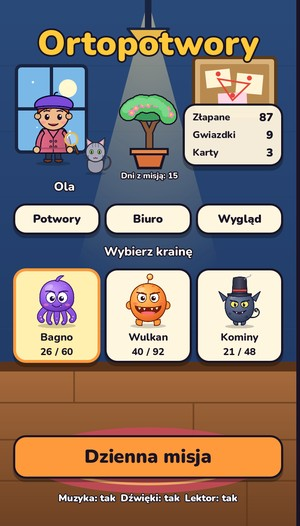
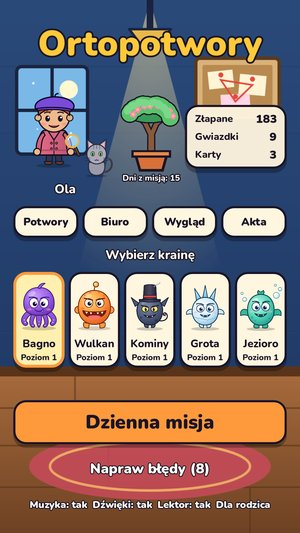
Ortopotwory: zrzuty i opis z wersji 1.2 (5 krain, 425 wyrazów, mapa krainy)
Zrzuty z karty sklepu (sklep/metadata/.../phoneScreenshots w repo gry,
stan z 17.11) plus mapa Bąblowego Jeziora, zamiast zrzutów z 11.11
(3 krainy, „Bagno Óśmiornicy”).

Claude-Session: https://claude.ai/code/session_01Y8aU7nnZJ63QC1ZsBExAPs

diff --git a/gry/ortopotwory/index.html b/gry/ortopotwory/index.html
@@ -3,15 +3,15 @@
 <head>
 <meta charset="utf-8">
 <meta name="viewport" content="width=device-width, initial-scale=1">
-<title>Ortopotwory: gra do nauki ortografii dla dzieci (ó/u, rz/ż, ch/h, ś/si)</title>
-<meta name="description" content="Ortografia dla dzieci 7–12 lat w formie gry: 4 krainy, 341 wyrazów i 52 zdania do dyktanda. Kilka minut dziennie, bez reklam, offline. Pierwsza kraina za darmo.">
+<title>Ortopotwory: gra do nauki ortografii dla dzieci (ó/u, rz/ż, ch/h, ą/ę)</title>
+<meta name="description" content="Ortografia dla dzieci 7–12 lat w formie gry: 5 krain, 425 wyrazów i 67 zdań do dyktanda. Kilka minut dziennie, bez reklam, offline. Pierwsza kraina za darmo.">
 <link rel="canonical" href="https://arturbyrski.pl/gry/ortopotwory/">
 <meta property="og:type" content="website">
 <meta property="og:locale" content="pl_PL">
 <meta property="og:site_name" content="Senne gry Artura">
 <meta property="og:url" content="https://arturbyrski.pl/gry/ortopotwory/">
 <meta property="og:title" content="Ortopotwory: Detektywi ortografii">
-<meta property="og:description" content="Ortografia dla dzieci 7–12 lat w formie gry: 4 krainy, 341 wyrazów i 52 zdania do dyktanda. Kilka minut dziennie, bez reklam, offline. Pierwsza kraina za darmo.">
+<meta property="og:description" content="Ortografia dla dzieci 7–12 lat w formie gry: 5 krain, 425 wyrazów i 67 zdań do dyktanda. Kilka minut dziennie, bez reklam, offline. Pierwsza kraina za darmo.">
 <meta property="og:image" content="https://arturbyrski.pl/img/gry/ortopotwory/okladka.jpg">
 <meta property="og:image:alt" content="Ortopotwory: Detektywi ortografii">
 <meta name="twitter:card" content="summary_large_image">
@@ -27,7 +27,7 @@
   "name": "Ortopotwory: Detektywi ortografii",
   "alternateName": "Ortopotwory: Spelling Detectives",
   "url": "https://arturbyrski.pl/gry/ortopotwory/",
-  "description": "Ortografia dla dzieci 7–12 lat w formie gry: 4 krainy, 341 wyrazów i 52 zdania do dyktanda. Kilka minut dziennie, bez reklam, offline. Pierwsza kraina za darmo.",
+  "description": "Ortografia dla dzieci 7–12 lat w formie gry: 5 krain, 425 wyrazów i 67 zdań do dyktanda. Kilka minut dziennie, bez reklam, offline. Pierwsza kraina za darmo.",
   "applicationCategory": "EducationalApplication",
   "operatingSystem": "Android",
   "inLanguage": "pl",
@@ -47,13 +47,14 @@
   "image": "https://arturbyrski.pl/img/gry/ortopotwory/okladka.jpg",
   "screenshot": [
    "https://arturbyrski.pl/img/gry/ortopotwory/1-biuro.jpg",
-   "https://arturbyrski.pl/img/gry/ortopotwory/5-pulapka.jpg",
-   "https://arturbyrski.pl/img/gry/ortopotwory/6-labirynt.jpg",
-   "https://arturbyrski.pl/img/gry/ortopotwory/7-dyktando.jpg",
-   "https://arturbyrski.pl/img/gry/ortopotwory/8-krol.jpg",
-   "https://arturbyrski.pl/img/gry/ortopotwory/3-baza.jpg",
-   "https://arturbyrski.pl/img/gry/ortopotwory/2-detektyw.jpg",
-   "https://arturbyrski.pl/img/gry/ortopotwory/9-podsumowanie.jpg"
+   "https://arturbyrski.pl/img/gry/ortopotwory/2-pulapka.jpg",
+   "https://arturbyrski.pl/img/gry/ortopotwory/3-lupa.jpg",
+   "https://arturbyrski.pl/img/gry/ortopotwory/4-labirynt.jpg",
+   "https://arturbyrski.pl/img/gry/ortopotwory/5-dyktando.jpg",
+   "https://arturbyrski.pl/img/gry/ortopotwory/6-mapa.jpg",
+   "https://arturbyrski.pl/img/gry/ortopotwory/7-krol.jpg",
+   "https://arturbyrski.pl/img/gry/ortopotwory/8-baza.jpg",
+   "https://arturbyrski.pl/img/gry/ortopotwory/9-biuro-ozdoby.jpg"
   ],
   "audience": {
    "@type": "PeopleAudience",
@@ -61,7 +62,7 @@
    "suggestedMaxAge": 12
   },
   "typicalAgeRange": "7-12",
-  "keywords": "ortografia, nauka ortografii, ó i u, rz i ż, ch i h, zmiękczenia, ś czy si, dyktando, język polski, gra edukacyjna"
+  "keywords": "ortografia, nauka ortografii, ó i u, rz i ż, ch i h, zmiękczenia, ą czy ę, ś czy si, dyktando, język polski, gra edukacyjna"
  },
  {
   "@context": "https://schema.org",
@@ -91,14 +92,14 @@
 <!-- Plik wygenerowany przez narzedzia/strona.py z dane/gry/ortopotwory.json. Nie edytuj ręcznie. -->
 <header class="pasek"><div class="wrap"><a class="logo" href="../../index.html"><svg width="30" height="30" viewBox="0 0 32 32" aria-hidden="true"><circle cx="16" cy="16" r="15" fill="#3d2a7a"/><path d="M21 6a10 10 0 1 0 5 15A8 8 0 0 1 21 6z" fill="#ffe08a"/></svg>Senne gry Artura</a><nav class="menu"><a href="../../index.html#gry">Gry</a><a href="../../ortografia/">Zasady ortografii</a><a href="../../index.html#rodzice">Dla rodziców</a><a href="../../index.html#dzieci">Dla dzieci</a><a href="../../index.html#kontakt">Kontakt</a><a href="#en">English</a></nav></div></header>
 <main>
-<section class="niebo"><div class="gwiazdy" aria-hidden="true"><span style="left:37%;top:53%;animation-delay:0.6s"></span><span style="left:74%;top:36%;animation-delay:1.2s"></span><span style="left:11%;top:19%;animation-delay:1.8s"></span><span style="left:48%;top:2%;animation-delay:2.4s"></span><span style="left:85%;top:55%;animation-delay:3.0s"></span><span style="left:22%;top:38%;animation-delay:3.6s"></span><span style="left:59%;top:21%;animation-delay:0.0s"></span><span style="left:96%;top:4%;animation-delay:0.6s"></span><span style="left:33%;top:57%;animation-delay:1.2s"></span><span style="left:70%;top:40%;animation-delay:1.8s"></span><span style="left:7%;top:23%;animation-delay:2.4s"></span><span style="left:44%;top:6%;animation-delay:3.0s"></span><span style="left:81%;top:59%;animation-delay:3.6s"></span><span style="left:18%;top:42%;animation-delay:0.0s"></span><span style="left:55%;top:25%;animation-delay:0.6s"></span><span style="left:92%;top:8%;animation-delay:1.2s"></span><span style="left:29%;top:61%;animation-delay:1.8s"></span><span style="left:66%;top:44%;animation-delay:2.4s"></span><span style="left:3%;top:27%;animation-delay:3.0s"></span><span style="left:40%;top:10%;animation-delay:3.6s"></span><span style="left:77%;top:63%;animation-delay:0.0s"></span><span style="left:14%;top:46%;animation-delay:0.6s"></span><span style="left:51%;top:29%;animation-delay:1.2s"></span><span style="left:88%;top:12%;animation-delay:1.8s"></span><span style="left:25%;top:65%;animation-delay:2.4s"></span><span style="left:62%;top:48%;animation-delay:3.0s"></span><span style="left:99%;top:31%;animation-delay:3.6s"></span></div><div class="ksiezyc" aria-hidden="true"></div><div class="wrap niebo-tresc"><div><h1>Ortopotwory: Detektywi ortografii</h1><p class="lead">Gra do nauki ortografii: kilka minut dziennie, a trudne wyrazy z ó/u, rz/ż, ch/h i zmiękczeniami zostają w pamięci. Bez reklam, bez zbierania danych.</p><ul class="znaczki"><li>dla dzieci 7–12 lat</li><li>bez reklam</li><li>bez internetu</li><li>bez zbierania danych</li></ul><div class="przyciski"><span class="przycisk przycisk-wkrotce" aria-disabled="true">Google Play · wkrótce</span><span class="notka-sklepu">Czeka na zatwierdzenie przez Google.</span></div></div><div><img src="../../img/gry/ortopotwory/okladka.jpg" alt="Ortopotwory: Detektywi ortografii: ekran gry dla dzieci" width="1280" height="720"></div></div></section>
+<section class="niebo"><div class="gwiazdy" aria-hidden="true"><span style="left:37%;top:53%;animation-delay:0.6s"></span><span style="left:74%;top:36%;animation-delay:1.2s"></span><span style="left:11%;top:19%;animation-delay:1.8s"></span><span style="left:48%;top:2%;animation-delay:2.4s"></span><span style="left:85%;top:55%;animation-delay:3.0s"></span><span style="left:22%;top:38%;animation-delay:3.6s"></span><span style="left:59%;top:21%;animation-delay:0.0s"></span><span style="left:96%;top:4%;animation-delay:0.6s"></span><span style="left:33%;top:57%;animation-delay:1.2s"></span><span style="left:70%;top:40%;animation-delay:1.8s"></span><span style="left:7%;top:23%;animation-delay:2.4s"></span><span style="left:44%;top:6%;animation-delay:3.0s"></span><span style="left:81%;top:59%;animation-delay:3.6s"></span><span style="left:18%;top:42%;animation-delay:0.0s"></span><span style="left:55%;top:25%;animation-delay:0.6s"></span><span style="left:92%;top:8%;animation-delay:1.2s"></span><span style="left:29%;top:61%;animation-delay:1.8s"></span><span style="left:66%;top:44%;animation-delay:2.4s"></span><span style="left:3%;top:27%;animation-delay:3.0s"></span><span style="left:40%;top:10%;animation-delay:3.6s"></span><span style="left:77%;top:63%;animation-delay:0.0s"></span><span style="left:14%;top:46%;animation-delay:0.6s"></span><span style="left:51%;top:29%;animation-delay:1.2s"></span><span style="left:88%;top:12%;animation-delay:1.8s"></span><span style="left:25%;top:65%;animation-delay:2.4s"></span><span style="left:62%;top:48%;animation-delay:3.0s"></span><span style="left:99%;top:31%;animation-delay:3.6s"></span></div><div class="ksiezyc" aria-hidden="true"></div><div class="wrap niebo-tresc"><div><h1>Ortopotwory: Detektywi ortografii</h1><p class="lead">Gra do nauki ortografii: kilka minut dziennie, a trudne wyrazy z ó/u, rz/ż, ch/h, ą/ę i zmiękczeniami zostają w pamięci. Bez reklam, bez zbierania danych.</p><ul class="znaczki"><li>dla dzieci 7–12 lat</li><li>bez reklam</li><li>bez internetu</li><li>bez zbierania danych</li></ul><div class="przyciski"><span class="przycisk przycisk-wkrotce" aria-disabled="true">Google Play · wkrótce</span><span class="notka-sklepu">Czeka na zatwierdzenie przez Google.</span></div></div><div><img src="../../img/gry/ortopotwory/okladka.jpg" alt="Ortopotwory: Detektywi ortografii: ekran gry dla dzieci" width="1280" height="720"></div></div></section>
 <section id="dlaczego"><div class="wrap"><h2>Dla rodzica w skrócie</h2><div class="kafelki"><div class="kafel"><div class="ikona f" aria-hidden="true">⏱</div><h3>Kilka minut dziennie</h3><p>Jedna misja trwa około 8–10 minut. Łatwo ją zmieścić przed szkołą albo po lekcjach.</p></div><div class="kafel"><div class="ikona s" aria-hidden="true">🧠</div><h3>Trudne wyrazy zostają w pamięci</h3><p>Wyraz wraca po 1, 3, 7, 14 i 30 dniach, a po błędzie już jutro. Gra sama pilnuje, co powtórzyć.</p></div><div class="kafel"><div class="ikona r" aria-hidden="true">🚫</div><h3>Bez reklam</h3><p>Żadnych reklam, losowania nagród ani subskrypcji. Pełna wersja to jeden zakup.</p></div><div class="kafel"><div class="ikona m" aria-hidden="true">🔒</div><h3>Prywatność</h3><p>Bez kont i bez zbierania danych. Postępy zostają na telefonie, a gra działa bez internetu.</p></div><div class="kafel"><div class="ikona f" aria-hidden="true">📊</div><h3>Widzisz postępy</h3><p>Strefa rodzica pokazuje postępy w każdej krainie i wyrazy, które sprawiają dziecku kłopot.</p></div><div class="kafel"><div class="ikona s" aria-hidden="true">✅</div><h3>Tylko poprawna pisownia</h3><p>Gra nigdy nie pokazuje wyrazu z błędem, więc dziecko nie utrwala złej pisowni.</p></div></div></div></section>
-<section><div class="wrap waski"><h2>O grze</h2><p>Złośliwe potworki pomieszały litery w Słowolandii. Ósemka z bagna, Żarłok i Rzepek z wulkanu, Chochlik z kominów i Śnieżek ze Śnieżnej Groty podmieniają ó i u, rz i ż, ch i h oraz ś i si, ć i ci. Dziecko jako ortodetektyw łapie je, poprawiając wyrazy.</p><p>Każdego dnia czeka krótka misja na około 8–10 minut: kilka minigier na przemian i pojedynek z Królem potworów. Każda kraina zaczyna się komiksem z regułą, a wyrazy wracają w powtórkach po 1, 3, 7, 14 i 30 dniach, żeby zostały w pamięci na dłużej.</p><p>Gra nigdy nie pokazuje wyrazu z błędem. Brakująca litera to puste pole, a po odpowiedzi dziecko widzi tylko poprawną pisownię.</p></div></section>
-<section><div class="wrap"><h2>Co jest w grze</h2><div class="kafelki"><div class="kafel"><div class="ikona f" aria-hidden="true">🔍</div><h3>4 krainy, 341 wyrazów</h3><p>Bagno Ósemki (ó/u), Wulkan Żarłoka (rz/ż), Kominy Chochlika (ch/h) i Śnieżna Grota (ś/si, ć/ci, ź/zi, ń/ni, dź/dzi). Każda zaczyna się komiksem z regułą.</p></div><div class="kafel"><div class="ikona r" aria-hidden="true">🎮</div><h3>Minigry na zmianę</h3><p>Pułapka, Lupa i Labirynt na przemian, a na koniec misji pojedynek z Królem potworów.</p></div><div class="kafel"><div class="ikona s" aria-hidden="true">📝</div><h3>Dyktando potwora</h3><p>52 zdania czytane przez lektora. Dziecko uzupełnia brakujące litery w całym zdaniu.</p></div><div class="kafel"><div class="ikona m" aria-hidden="true">✋</div><h3>Odcisk palca</h3><p>Po błędzie dziecko obrysowuje wyraz palcem, a lektor go czyta. Ruch, wzrok i słuch razem.</p></div><div class="kafel"><div class="ikona f" aria-hidden="true">🕵</div><h3>Własny detektyw</h3><p>Wygląd, zwierzak, baza złapanych potworów i biuro z ozdobami za gwiazdki.</p></div><div class="kafel"><div class="ikona s" aria-hidden="true">🌱</div><h3>Drzewko serii</h3><p>Rośnie za każdy dzień z misją i nigdy nie usycha. Przerwa niczego nie zabiera.</p></div></div></div></section>
-<section><div class="wrap"><h2>Tak to wygląda</h2><div class="zrzuty"><figure><img src="../../img/gry/ortopotwory/1-biuro.jpg" alt="Biuro detektywa i mapa krain" width="300" height="526" loading="lazy"><figcaption>Biuro detektywa i mapa krain</figcaption></figure><figure><img src="../../img/gry/ortopotwory/5-pulapka.jpg" alt="Pułapka: ó czy u, zanim potwór wpadnie do bagna" width="300" height="526" loading="lazy"><figcaption>Pułapka: ó czy u, zanim potwór wpadnie do bagna</figcaption></figure><figure><img src="../../img/gry/ortopotwory/6-labirynt.jpg" alt="Labirynt: wybierz drzwi z dobrą literą" width="300" height="526" loading="lazy"><figcaption>Labirynt: wybierz drzwi z dobrą literą</figcaption></figure><figure><img src="../../img/gry/ortopotwory/7-dyktando.jpg" alt="Dyktando potwora: lektor czyta zdanie" width="300" height="526" loading="lazy"><figcaption>Dyktando potwora: lektor czyta zdanie</figcaption></figure><figure><img src="../../img/gry/ortopotwory/8-krol.jpg" alt="Pojedynek z Królem potworów" width="300" height="526" loading="lazy"><figcaption>Pojedynek z Królem potworów</figcaption></figure><figure><img src="../../img/gry/ortopotwory/3-baza.jpg" alt="Baza potworów: kartoteka złapanych wyrazów" width="300" height="526" loading="lazy"><figcaption>Baza potworów: kartoteka złapanych wyrazów</figcaption></figure><figure><img src="../../img/gry/ortopotwory/2-detektyw.jpg" alt="Własny detektyw: wygląd i zwierzak" width="300" height="526" loading="lazy"><figcaption>Własny detektyw: wygląd i zwierzak</figcaption></figure><figure><img src="../../img/gry/ortopotwory/9-podsumowanie.jpg" alt="Podsumowanie misji i drzewko serii" width="300" height="526" loading="lazy"><figcaption>Podsumowanie misji i drzewko serii</figcaption></figure></div></div></section>
+<section><div class="wrap waski"><h2>O grze</h2><p>Złośliwe potworki pomieszały litery w Słowolandii. Ósemka z bagna, Żarłok i Rzepek z wulkanu, Chochlik z kominów, Śnieżek ze Śnieżnej Groty i Bąbel z Bąblowego Jeziora podmieniają ó i u, rz i ż, ch i h, ś i si oraz ą i ę. Dziecko jako ortodetektyw łapie je, poprawiając wyrazy.</p><p>Każdego dnia czeka krótka misja na około 8–10 minut: kilka minigier na przemian i pojedynek z Królem potworów. Każda kraina zaczyna się komiksem z regułą, a wyrazy wracają w powtórkach po 1, 3, 7, 14 i 30 dniach, żeby zostały w pamięci na dłużej.</p><p>Gra nigdy nie pokazuje wyrazu z błędem. Brakująca litera to puste pole, a po odpowiedzi dziecko widzi tylko poprawną pisownię.</p></div></section>
+<section><div class="wrap"><h2>Co jest w grze</h2><div class="kafelki"><div class="kafel"><div class="ikona f" aria-hidden="true">🔍</div><h3>5 krain, 425 wyrazów</h3><p>Bagno Ósemki (ó/u), Wulkan Żarłoka (rz/ż), Kominy Chochlika (ch/h), Śnieżna Grota (ś/si, ć/ci, ź/zi, ń/ni, dź/dzi) i Bąblowe Jezioro (ą/ę, om/on/em/en). Każda zaczyna się komiksem z regułą.</p></div><div class="kafel"><div class="ikona r" aria-hidden="true">🎮</div><h3>Minigry na zmianę</h3><p>Pułapka, Lupa i Labirynt na przemian, a na koniec misji pojedynek z Królem potworów.</p></div><div class="kafel"><div class="ikona s" aria-hidden="true">📝</div><h3>Dyktando potwora</h3><p>67 zdań czytanych przez lektora. Dziecko uzupełnia brakujące litery w całym zdaniu.</p></div><div class="kafel"><div class="ikona m" aria-hidden="true">✋</div><h3>Odcisk palca</h3><p>Po błędzie dziecko obrysowuje wyraz palcem, a lektor go czyta. Ruch, wzrok i słuch razem.</p></div><div class="kafel"><div class="ikona f" aria-hidden="true">🕵</div><h3>Własny detektyw</h3><p>Wygląd, zwierzak, baza złapanych potworów i biuro z ozdobami za gwiazdki.</p></div><div class="kafel"><div class="ikona s" aria-hidden="true">🌱</div><h3>Drzewko serii</h3><p>Rośnie za każdy dzień z misją i nigdy nie usycha. Przerwa niczego nie zabiera.</p></div></div></div></section>
+<section><div class="wrap"><h2>Tak to wygląda</h2><div class="zrzuty"><figure><img src="../../img/gry/ortopotwory/1-biuro.jpg" alt="Biuro detektywa i pięć krain" width="300" height="533" loading="lazy"><figcaption>Biuro detektywa i pięć krain</figcaption></figure><figure><img src="../../img/gry/ortopotwory/2-pulapka.jpg" alt="Pułapka: ó czy u, zanim potwór wpadnie do bagna" width="300" height="533" loading="lazy"><figcaption>Pułapka: ó czy u, zanim potwór wpadnie do bagna</figcaption></figure><figure><img src="../../img/gry/ortopotwory/3-lupa.jpg" alt="Lupa: znajdź zdrajcę z rodziny wyrazów" width="300" height="533" loading="lazy"><figcaption>Lupa: znajdź zdrajcę z rodziny wyrazów</figcaption></figure><figure><img src="../../img/gry/ortopotwory/4-labirynt.jpg" alt="Labirynt: wybierz drzwi z dobrą literą" width="300" height="533" loading="lazy"><figcaption>Labirynt: wybierz drzwi z dobrą literą</figcaption></figure><figure><img src="../../img/gry/ortopotwory/5-dyktando.jpg" alt="Dyktando potwora: lektor czyta zdanie" width="300" height="533" loading="lazy"><figcaption>Dyktando potwora: lektor czyta zdanie</figcaption></figure><figure><img src="../../img/gry/ortopotwory/6-mapa.jpg" alt="Mapa krainy: ścieżka do zamku Króla" width="300" height="533" loading="lazy"><figcaption>Mapa krainy: ścieżka do zamku Króla</figcaption></figure><figure><img src="../../img/gry/ortopotwory/7-krol.jpg" alt="Pojedynek z Jeziornym Królem: ą czy ę" width="300" height="533" loading="lazy"><figcaption>Pojedynek z Jeziornym Królem: ą czy ę</figcaption></figure><figure><img src="../../img/gry/ortopotwory/8-baza.jpg" alt="Baza potworów: kartoteka złapanych wyrazów" width="300" height="533" loading="lazy"><figcaption>Baza potworów: kartoteka złapanych wyrazów</figcaption></figure><figure><img src="../../img/gry/ortopotwory/9-biuro-ozdoby.jpg" alt="Ozdoby do biura za gwiazdki, bez prawdziwych pieniędzy" width="300" height="533" loading="lazy"><figcaption>Ozdoby do biura za gwiazdki, bez prawdziwych pieniędzy</figcaption></figure></div></div></section>
 <section id="rodzice"><div class="wrap waski"><h2>Dla rodziców</h2><ul class="lista"><li>Bez reklam, bez kont i bez zbierania danych. Gra działa offline i nie prosi o dostęp do zdjęć, mikrofonu, kontaktów ani lokalizacji.</li><li>Strefa dla rodzica za bramką: raport postępów w każdej krainie i najtrudniejsze wyrazy. Wszystko liczone na telefonie.</li><li>Gwiazdki są za dokładność, nie za szybkość. Ozdoby kupuje się za gwiazdki, bez prawdziwych pieniędzy i bez losowania.</li><li>Detektyw ma tylko imię, bez nazwiska i zdjęcia. Akta sprawy dla starszych dzieci (10–12 lat) uczą uzasadniać pisownię regułą.</li></ul><p><a href="../../polityka-prywatnosci-ortopotwory.html">Polityka prywatności gry Ortopotwory</a></p></div></section>
-<section id="cena"><div class="wrap waski"><h2>Ile to kosztuje</h2><ul class="lista"><li>Pierwsza kraina, Bagno Ósemki (ó/u), jest za darmo i bez limitu czasu.</li><li>Pełna wersja otwiera pozostałe krainy: Wulkan Żarłoka, Kominy Chochlika i Śnieżną Grotę. To jednorazowy zakup za 19,99 zł, bez subskrypcji i bez waluty w grze.</li><li>Zakup jest tylko w strefie rodzica, za bramką, więc dziecko nie kupi niczego przypadkiem.</li></ul></div></section>
-<section id="en"><div class="wrap waski"><h2>Ortopotwory: Spelling Detectives (English)</h2><p>Mischievous monsters have mixed up the letters in Wordland. The Eight from the swamp, the Glutton and Rzepek from the volcano, the Imp from the chimneys and Snowy from the Snow Cave swap ó and u, rz and ż, ch and h, and ś and si, ć and ci. As a spelling detective, your child catches them by fixing the words.</p><p>Every day brings a short mission of about 8–10 minutes: a few alternating mini-games and a duel with the Monster King. Each land starts with a comic that explains the rule, and words come back for review after 1, 3, 7, 14 and 30 days so they stick.</p><p>The game never shows a misspelled word. The missing letter is an empty box, and after answering the child only ever sees the correct spelling.</p><p>The first land is free. The full version, with all four lands, is a one-time purchase of 19.99 PLN behind a parental gate, with no subscription.</p></div></section>
+<section id="cena"><div class="wrap waski"><h2>Ile to kosztuje</h2><ul class="lista"><li>Pierwsza kraina, Bagno Ósemki (ó/u), jest za darmo i bez limitu czasu.</li><li>Pełna wersja otwiera pozostałe krainy: Wulkan Żarłoka, Kominy Chochlika, Śnieżną Grotę i Bąblowe Jezioro. To jednorazowy zakup za 19,99 zł, bez subskrypcji i bez waluty w grze.</li><li>Zakup jest tylko w strefie rodzica, za bramką, więc dziecko nie kupi niczego przypadkiem.</li></ul></div></section>
+<section id="en"><div class="wrap waski"><h2>Ortopotwory: Spelling Detectives (English)</h2><p>Mischievous monsters have mixed up the letters in Wordland. The Eight from the swamp, the Glutton and Rzepek from the volcano, the Imp from the chimneys, Snowy from the Snow Cave and Bubble from Bubble Lake swap ó and u, rz and ż, ch and h, ś and si, and ą and ę. As a spelling detective, your child catches them by fixing the words.</p><p>Every day brings a short mission of about 8–10 minutes: a few alternating mini-games and a duel with the Monster King. Each land starts with a comic that explains the rule, and words come back for review after 1, 3, 7, 14 and 30 days so they stick.</p><p>The game never shows a misspelled word. The missing letter is an empty box, and after answering the child only ever sees the correct spelling.</p><p>The first land is free. The full version, with all five lands, is a one-time purchase of 19.99 PLN behind a parental gate, with no subscription.</p></div></section>
 </main>
 <footer><div class="wrap"><span>© 2026 Artur Byrski Link Technologies</span><span><a href="../../polityka-prywatnosci-ortopotwory.html">Polityka prywatności</a> · <a href="../../feed.xml">Wydania (RSS)</a></span></div></footer>
 <!-- statystyki:start -->

diff --git a/ortografia/ch-czy-h/index.html b/ortografia/ch-czy-h/index.html
@@ -113,7 +113,7 @@
 <section><div class="wrap waski"><h2>Wyrazy do zapamiętania</h2><p>Tych wyrazów nie sprawdzi żadna reguła. W grze Ortopotwory pilnuje ich Chochlik z Kominów, który zjada h i podkłada ch.</p><ul class="wyrazy"><li><b class="litera">ch</b>leb</li><li><b class="litera">ch</b>mura</li><li><b class="litera">ch</b>łopiec</li><li><b class="litera">ch</b>omik</li><li>ku<b class="litera">ch</b>nia</li><li><b class="litera">ch</b>odnik</li><li><b class="litera">ch</b>oinka</li><li><b class="litera">ch</b>rząszcz</li><li><b class="litera">h</b>erbata</li><li><b class="litera">h</b>ałas</li><li><b class="litera">h</b>amak</li><li><b class="litera">h</b>istoria</li><li><b class="litera">h</b>otel</li><li>bo<b class="litera">h</b>ater</li><li><b class="litera">h</b>ulajnoga</li><li><b class="litera">h</b>ipopotam</li><li><b class="litera">h</b>uśtawka</li></ul></div></section>
 <section><div class="wrap waski"><h2>Ćwiczenie: wpisz ch/h</h2><p>Przepisz wyrazy do zeszytu i wpisz brakujące litery. Potem sprawdź odpowiedzi.</p><ol class="wyrazy cwiczenie"><li>da<span class="luka" aria-label="brakująca litera">__</span></li><li>s<span class="luka" aria-label="brakująca litera">__</span>ody</li><li><span class="luka" aria-label="brakująca litera">_</span>erbata</li><li>mu<span class="luka" aria-label="brakująca litera">__</span>a</li><li>dru<span class="luka" aria-label="brakująca litera">_</span></li><li><span class="luka" aria-label="brakująca litera">__</span>leb</li><li>zapa<span class="luka" aria-label="brakująca litera">__</span></li><li><span class="luka" aria-label="brakująca litera">_</span>amak</li><li><span class="luka" aria-label="brakująca litera">__</span>omik</li><li>bo<span class="luka" aria-label="brakująca litera">_</span>ater</li></ol><details><summary>Pokaż odpowiedzi</summary><ol class="wyrazy"><li>da<b class="litera">ch</b></li><li>s<b class="litera">ch</b>ody</li><li><b class="litera">h</b>erbata</li><li>mu<b class="litera">ch</b>a</li><li>dru<b class="litera">h</b></li><li><b class="litera">ch</b>leb</li><li>zapa<b class="litera">ch</b></li><li><b class="litera">h</b>amak</li><li><b class="litera">ch</b>omik</li><li>bo<b class="litera">h</b>ater</li></ol></details></div></section>
 <section><div class="wrap waski"><h2>Jak ćwiczyć w domu</h2><ul class="lista"><li>Zacznij od dwóch pewnych reguł: ch na końcu wyrazu i ch po s. Szybko dają dziecku poczucie sukcesu.</li><li>Wyrazy z h do zapamiętania łączcie w zabawne zdania: „Hipopotam pije herbatę na hamaku”.</li><li>Pokazuj tylko poprawny zapis. Puste miejsce na literę jest lepsze niż wyraz z błędem.</li><li>Wracajcie do trudnych wyrazów po kilku dniach, a nie tylko tego samego wieczoru.</li></ul></div></section>
-<section><div class="wrap waski"><div class="kontakt"><h2>Poćwicz z Ortopotworami</h2><p>Gra do nauki ortografii: kilka minut dziennie, a trudne wyrazy z ó/u, rz/ż, ch/h i zmiękczeniami zostają w pamięci. Bez reklam, bez zbierania danych. Wyrazy z tej strony wracają w grze w powtórkach po 1, 3, 7, 14 i 30 dniach.</p><div class="przyciski"><a class="przycisk" href="../../gry/ortopotwory/">Poznaj grę Ortopotwory</a></div></div></div></section>
+<section><div class="wrap waski"><div class="kontakt"><h2>Poćwicz z Ortopotworami</h2><p>Gra do nauki ortografii: kilka minut dziennie, a trudne wyrazy z ó/u, rz/ż, ch/h, ą/ę i zmiękczeniami zostają w pamięci. Bez reklam, bez zbierania danych. Wyrazy z tej strony wracają w grze w powtórkach po 1, 3, 7, 14 i 30 dniach.</p><div class="przyciski"><a class="przycisk" href="../../gry/ortopotwory/">Poznaj grę Ortopotwory</a></div></div></div></section>
 <section><div class="wrap waski"><h2>Częste pytania</h2><details><summary>Kiedy piszemy ch?</summary><p>Na końcu wyrazu (dach), po literze s (schody), gdy ch wymienia się na sz (mucha, bo muszka) i w wyrazach do zapamiętania, np. chleb, chmura.</p></details><details><summary>Kiedy piszemy h?</summary><p>Gdy h wymienia się na g, z albo ż (druh, bo drużyna) oraz w wyrazach do zapamiętania, np. herbata, hamak, hipopotam.</p></details><details><summary>Czy na końcu wyrazu może być h?</summary><p>Prawie nigdy. Najczęściej spotykany wyjątek to druh, bo drużyna.</p></details></div></section>
 <section><div class="wrap waski"><h2>Inne zasady ortografii</h2><ul class="lista"><li><a href="../o-czy-u/">Ó czy u? Zasady pisowni dla dzieci</a></li><li><a href="../rz-czy-z/">Rz czy ż? Zasady pisowni dla dzieci</a></li></ul></div></section>
 </main>

diff --git a/ortografia/rz-czy-z/index.html b/ortografia/rz-czy-z/index.html
@@ -113,7 +113,7 @@
 <section><div class="wrap waski"><h2>Wyrazy do zapamiętania</h2><p>Tu nie pomoże żadna reguła. W grze Ortopotwory pilnują ich bracia z Wulkanu: Rzepek wyrazów z rz, a Żarłok wyrazów z ż.</p><ul class="wyrazy"><li><b class="litera">rz</b>eka</li><li>bu<b class="litera">rz</b>a</li><li>o<b class="litera">rz</b>ech</li><li>ko<b class="litera">rz</b>eń</li><li>wa<b class="litera">rz</b>ywa</li><li><b class="litera">rz</b>ecz</li><li>po<b class="litera">rz</b>ądek</li><li><b class="litera">ż</b>aba</li><li><b class="litera">ż</b>yrafa</li><li>wie<b class="litera">ż</b>a</li><li>pla<b class="litera">ż</b>a</li><li>je<b class="litera">ż</b></li><li>ły<b class="litera">ż</b>ka</li><li><b class="litera">ż</b>ółty</li></ul></div></section>
 <section><div class="wrap waski"><h2>Ćwiczenie: wpisz rz/ż</h2><p>Przepisz wyrazy do zeszytu i wpisz brakujące litery. Potem sprawdź odpowiedzi.</p><ol class="wyrazy cwiczenie"><li>d<span class="luka" aria-label="brakująca litera">__</span>ewo</li><li>ksią<span class="luka" aria-label="brakująca litera">_</span>ka</li><li>leka<span class="luka" aria-label="brakująca litera">__</span></li><li>dob<span class="luka" aria-label="brakująca litera">__</span>e</li><li><span class="luka" aria-label="brakująca litera">_</span>aba</li><li>t<span class="luka" aria-label="brakująca litera">__</span>y</li><li>śnie<span class="luka" aria-label="brakująca litera">_</span>ny</li><li>baga<span class="luka" aria-label="brakująca litera">_</span></li><li>k<span class="luka" aria-label="brakująca litera">__</span>esło</li><li><span class="luka" aria-label="brakująca litera">__</span>eka</li></ol><details><summary>Pokaż odpowiedzi</summary><ol class="wyrazy"><li>d<b class="litera">rz</b>ewo</li><li>ksią<b class="litera">ż</b>ka</li><li>leka<b class="litera">rz</b></li><li>dob<b class="litera">rz</b>e</li><li><b class="litera">ż</b>aba</li><li>t<b class="litera">rz</b>y</li><li>śnie<b class="litera">ż</b>ny</li><li>baga<b class="litera">ż</b></li><li>k<b class="litera">rz</b>esło</li><li><b class="litera">rz</b>eka</li></ol></details></div></section>
 <section><div class="wrap waski"><h2>Jak ćwiczyć w domu</h2><ul class="lista"><li>Najwięcej daje szukanie rodziny wyrazu: „dobrze, bo dobry”, „książka, bo księga”. Zachęcaj dziecko, żeby mówiło to na głos.</li><li>Litery, po których piszemy rz, łatwiej zapamiętać w rymowance albo jako zabawne zdanie.</li><li>Wyjątki (bagaż, garaż) ćwiczcie osobno, gdy reguła -arz jest już pewna.</li><li>Pokazuj tylko poprawne wyrazy. Puste miejsce na literę działa lepiej niż szukanie błędów.</li></ul></div></section>
-<section><div class="wrap waski"><div class="kontakt"><h2>Poćwicz z Ortopotworami</h2><p>Gra do nauki ortografii: kilka minut dziennie, a trudne wyrazy z ó/u, rz/ż, ch/h i zmiękczeniami zostają w pamięci. Bez reklam, bez zbierania danych. Wyrazy z tej strony wracają w grze w powtórkach po 1, 3, 7, 14 i 30 dniach.</p><div class="przyciski"><a class="przycisk" href="../../gry/ortopotwory/">Poznaj grę Ortopotwory</a></div></div></div></section>
+<section><div class="wrap waski"><div class="kontakt"><h2>Poćwicz z Ortopotworami</h2><p>Gra do nauki ortografii: kilka minut dziennie, a trudne wyrazy z ó/u, rz/ż, ch/h, ą/ę i zmiękczeniami zostają w pamięci. Bez reklam, bez zbierania danych. Wyrazy z tej strony wracają w grze w powtórkach po 1, 3, 7, 14 i 30 dniach.</p><div class="przyciski"><a class="przycisk" href="../../gry/ortopotwory/">Poznaj grę Ortopotwory</a></div></div></div></section>
 <section><div class="wrap waski"><h2>Częste pytania</h2><details><summary>Kiedy piszemy rz?</summary><p>Gdy rz wymienia się na r (dobrze, bo dobry), po literach b, p, d, t, g, k, ch, j, w (drzewo, trzy) i w końcówkach -arz, -erz (lekarz, talerz).</p></details><details><summary>Kiedy piszemy ż?</summary><p>Gdy ż wymienia się na g, dz, z, s, h albo ź (książka, bo księga) oraz w wyrazach do zapamiętania, np. żaba, plaża, jeż.</p></details><details><summary>Dlaczego bagaż piszemy przez ż?</summary><p>Bagaż, garaż czy masaż to wyrazy zapożyczone i są wyjątkiem od reguły -arz. Trzeba je zapamiętać.</p></details></div></section>
 <section><div class="wrap waski"><h2>Inne zasady ortografii</h2><ul class="lista"><li><a href="../o-czy-u/">Ó czy u? Zasady pisowni dla dzieci</a></li><li><a href="../ch-czy-h/">Ch czy h? Zasady pisowni dla dzieci</a></li></ul></div></section>
 </main>

diff --git a/ortografia/o-czy-u/index.html b/ortografia/o-czy-u/index.html
@@ -113,7 +113,7 @@
 <section><div class="wrap waski"><h2>Wyjątki do zapamiętania</h2><p>W tych wyrazach ó nie wymienia się na o, e ani a i nie pasuje do żadnej końcówki. Trzeba je zapamiętać. W grze Ortopotwory to złote potwory, które wracają częściej.</p><ul class="wyrazy"><li>g<b class="litera">ó</b>ra</li><li>ż<b class="litera">ó</b>łw</li><li>m<b class="litera">ó</b>zg</li><li>r<b class="litera">ó</b>ża</li><li>c<b class="litera">ó</b>rka</li><li>wr<b class="litera">ó</b>bel</li><li>oł<b class="litera">ó</b>wek</li><li>og<b class="litera">ó</b>rek</li><li>sk<b class="litera">ó</b>ra</li><li>kr<b class="litera">ó</b>l</li></ul></div></section>
 <section><div class="wrap waski"><h2>Ćwiczenie: wpisz ó/u</h2><p>Przepisz wyrazy do zeszytu i wpisz brakujące litery. Potem sprawdź odpowiedzi.</p><ol class="wyrazy cwiczenie"><li>st<span class="luka" aria-label="brakująca litera">_</span>ł</li><li><span class="luka" aria-label="brakująca litera">_</span>cho</li><li>kot<span class="luka" aria-label="brakująca litera">_</span>w</li><li>mal<span class="luka" aria-label="brakująca litera">_</span>je</li><li>kr<span class="luka" aria-label="brakująca litera">_</span>l</li><li>poczt<span class="luka" aria-label="brakująca litera">_</span>wka</li><li>rys<span class="luka" aria-label="brakująca litera">_</span>nek</li><li>n<span class="luka" aria-label="brakująca litera">_</span>żka</li><li>kapel<span class="luka" aria-label="brakująca litera">_</span>sz</li><li>g<span class="luka" aria-label="brakująca litera">_</span>ra</li></ol><details><summary>Pokaż odpowiedzi</summary><ol class="wyrazy"><li>st<b class="litera">ó</b>ł</li><li><b class="litera">u</b>cho</li><li>kot<b class="litera">ó</b>w</li><li>mal<b class="litera">u</b>je</li><li>kr<b class="litera">ó</b>l</li><li>poczt<b class="litera">ó</b>wka</li><li>rys<b class="litera">u</b>nek</li><li>n<b class="litera">ó</b>żka</li><li>kapel<b class="litera">u</b>sz</li><li>g<b class="litera">ó</b>ra</li></ol></details></div></section>
 <section><div class="wrap waski"><h2>Jak ćwiczyć w domu</h2><ul class="lista"><li>Najpierw ucz szukania rodziny wyrazu („stół, bo stoły”). To jedna reguła, która rozwiązuje najwięcej przypadków.</li><li>Nie pokazuj dziecku wyrazów z błędem do poprawiania. Lepiej zostawić puste miejsce na literę, wtedy w pamięci zostaje tylko poprawny zapis.</li><li>Ćwicz krótko i często: 5 minut dziennie daje więcej niż godzina raz w tygodniu.</li><li>Wracaj do tych samych wyrazów po kilku dniach. Powtórka po przerwie utrwala pisownię najlepiej.</li></ul></div></section>
-<section><div class="wrap waski"><div class="kontakt"><h2>Poćwicz z Ortopotworami</h2><p>Gra do nauki ortografii: kilka minut dziennie, a trudne wyrazy z ó/u, rz/ż, ch/h i zmiękczeniami zostają w pamięci. Bez reklam, bez zbierania danych. Wyrazy z tej strony wracają w grze w powtórkach po 1, 3, 7, 14 i 30 dniach.</p><div class="przyciski"><a class="przycisk" href="../../gry/ortopotwory/">Poznaj grę Ortopotwory</a></div></div></div></section>
+<section><div class="wrap waski"><div class="kontakt"><h2>Poćwicz z Ortopotworami</h2><p>Gra do nauki ortografii: kilka minut dziennie, a trudne wyrazy z ó/u, rz/ż, ch/h, ą/ę i zmiękczeniami zostają w pamięci. Bez reklam, bez zbierania danych. Wyrazy z tej strony wracają w grze w powtórkach po 1, 3, 7, 14 i 30 dniach.</p><div class="przyciski"><a class="przycisk" href="../../gry/ortopotwory/">Poznaj grę Ortopotwory</a></div></div></div></section>
 <section><div class="wrap waski"><h2>Częste pytania</h2><details><summary>Kiedy piszemy ó?</summary><p>Gdy ó wymienia się na o, e albo a (stół, bo stoły), w końcówkach -ów i -ówka (kotów, pocztówka) oraz w wyrazach do zapamiętania, np. góra, król, żółw.</p></details><details><summary>Kiedy piszemy u?</summary><p>Na początku wyrazu (ucho), na końcu wyrazu (domu) i w końcówkach -uje, -unek, -usz, -uch (maluje, rysunek, kapelusz, maluch).</p></details><details><summary>Czy na początku wyrazu może być ó?</summary><p>Tylko w kilku wyrazach: ósmy, ósemka, ów. W pozostałych na początku piszemy u.</p></details></div></section>
 <section><div class="wrap waski"><h2>Inne zasady ortografii</h2><ul class="lista"><li><a href="../rz-czy-z/">Rz czy ż? Zasady pisowni dla dzieci</a></li><li><a href="../ch-czy-h/">Ch czy h? Zasady pisowni dla dzieci</a></li></ul></div></section>
 </main>

diff --git a/index.html b/index.html
@@ -73,7 +73,7 @@
     <a href="gry/ortopotwory/"><img src="img/gry/ortopotwory/okladka.jpg" alt="Ortopotwory: Detektywi ortografii: ekran gry dla dzieci" width="1280" height="720"></a>
     <div class="gra-opis jasne">
       <h3><a href="gry/ortopotwory/">Ortopotwory: Detektywi ortografii</a></h3>
-      <p>Gra do nauki ortografii: kilka minut dziennie, a trudne wyrazy z ó/u, rz/ż, ch/h i zmiękczeniami zostają w pamięci. Bez reklam, bez zbierania danych.</p>
+      <p>Gra do nauki ortografii: kilka minut dziennie, a trudne wyrazy z ó/u, rz/ż, ch/h, ą/ę i zmiękczeniami zostają w pamięci. Bez reklam, bez zbierania danych.</p>
       <ul class="znaczki"><li>dla dzieci 7–12 lat</li><li>bez reklam</li><li>offline</li><li>pierwsza kraina za darmo</li></ul>
       <div class="przyciski"><span class="przycisk przycisk-wkrotce" aria-disabled="true">Google Play · wkrótce</span><span class="notka-sklepu">Czeka na zatwierdzenie przez Google.</span></div>
       <p><a href="gry/ortopotwory/">Więcej o grze</a> · <a href="polityka-prywatnosci-ortopotwory.html">Polityka prywatności</a></p>
